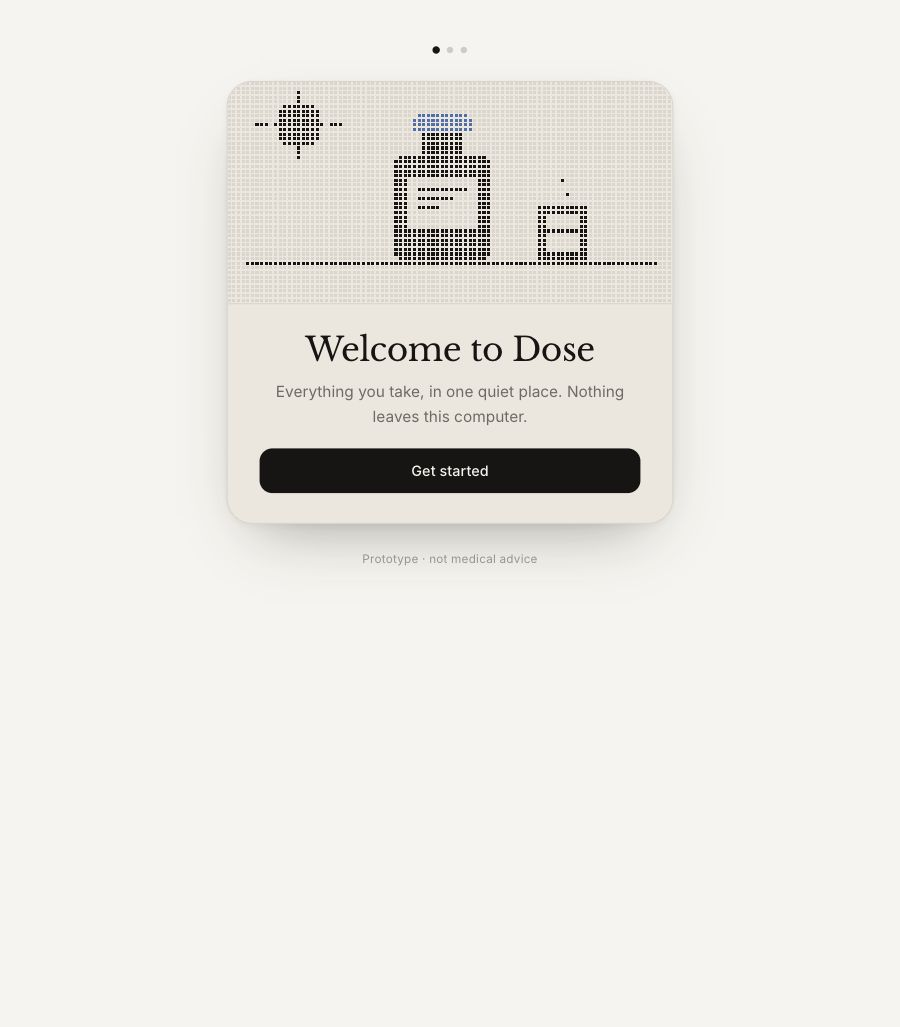
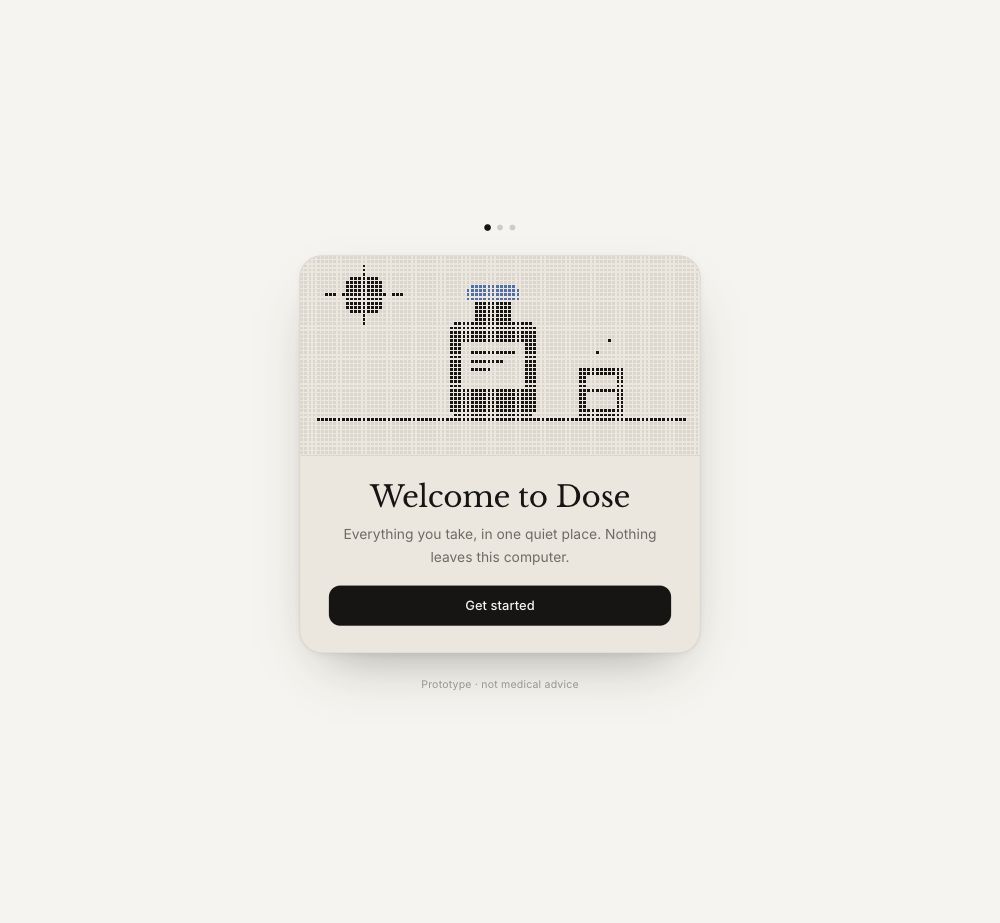
Centre the welcome screen vertically
.shell was min-height only, so the welcome stack's own min-height:100% resolved
against an auto-height parent and the card sat at the top of the window. The
shell is now a one-row grid with a 1fr track, which gives the child a definite
height to centre in — the same fix already applied to the app shell.

Changed region(s): [[0.2489, 0.0607, 0.7467, 0.7584]]

diff --git a/app/src/tokens.css b/app/src/tokens.css
@@ -125,4 +125,11 @@ button { font: inherit; color: inherit; }
 }
 .quiet:hover { color: var(--ink); }
 
-.shell { min-height: 100%; }
+/* The shell exists so a page can be vertically centred: a one-row grid with a
+   1fr track gives the child a definite height, which `min-height: 100%` on an
+   auto-height parent does not. */
+.shell {
+  display: grid;
+  grid-template-rows: 1fr;
+  min-height: 100%;
+}
